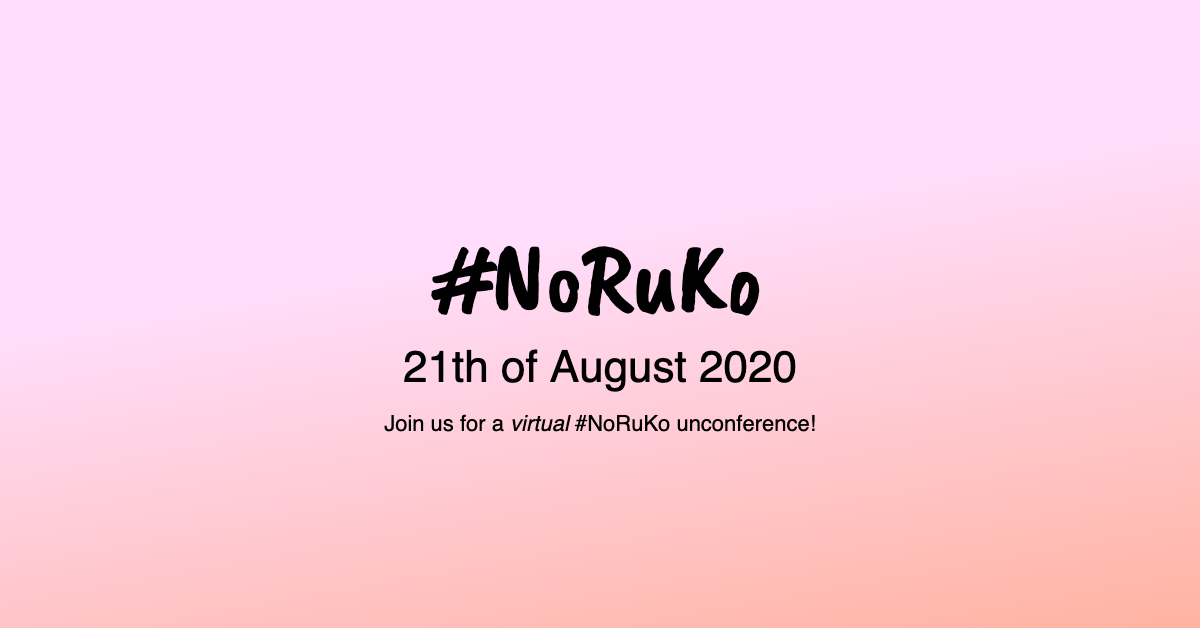
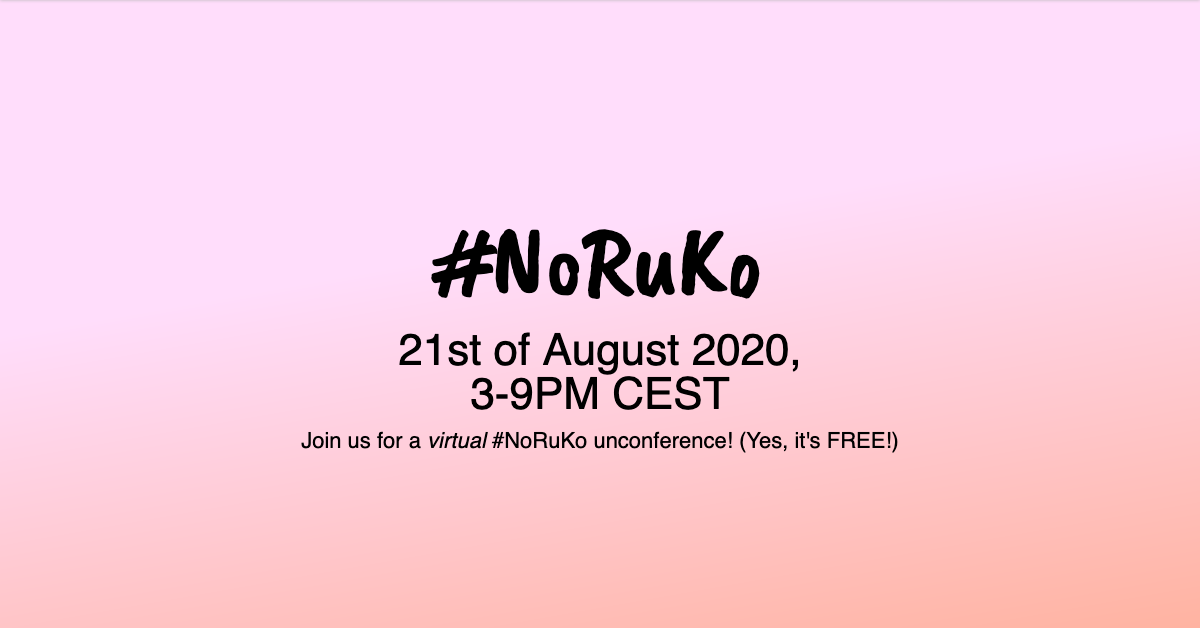
Update social media preview image
Fix spelling.
Add a line break so it's more easy to read.

Changed region(s): [[0.2467, 0.3631, 0.7708, 0.7261]]

diff --git a/index.html b/index.html
@@ -7,7 +7,7 @@ layout: default
     <div class="hero-content">
       <div>
         <h1>#NoRuKo</h1>
-        <p class="date">21st of August 2020, 3-9PM CEST</p>
+        <p class="date">21st of August 2020,<br>3-9PM CEST</p>
         <p class="description">Join us for a <em>virtual</em> #NoRuKo unconference! (Yes, it's FREE!)</p>
 
         <!-- <div class="video"> -->
